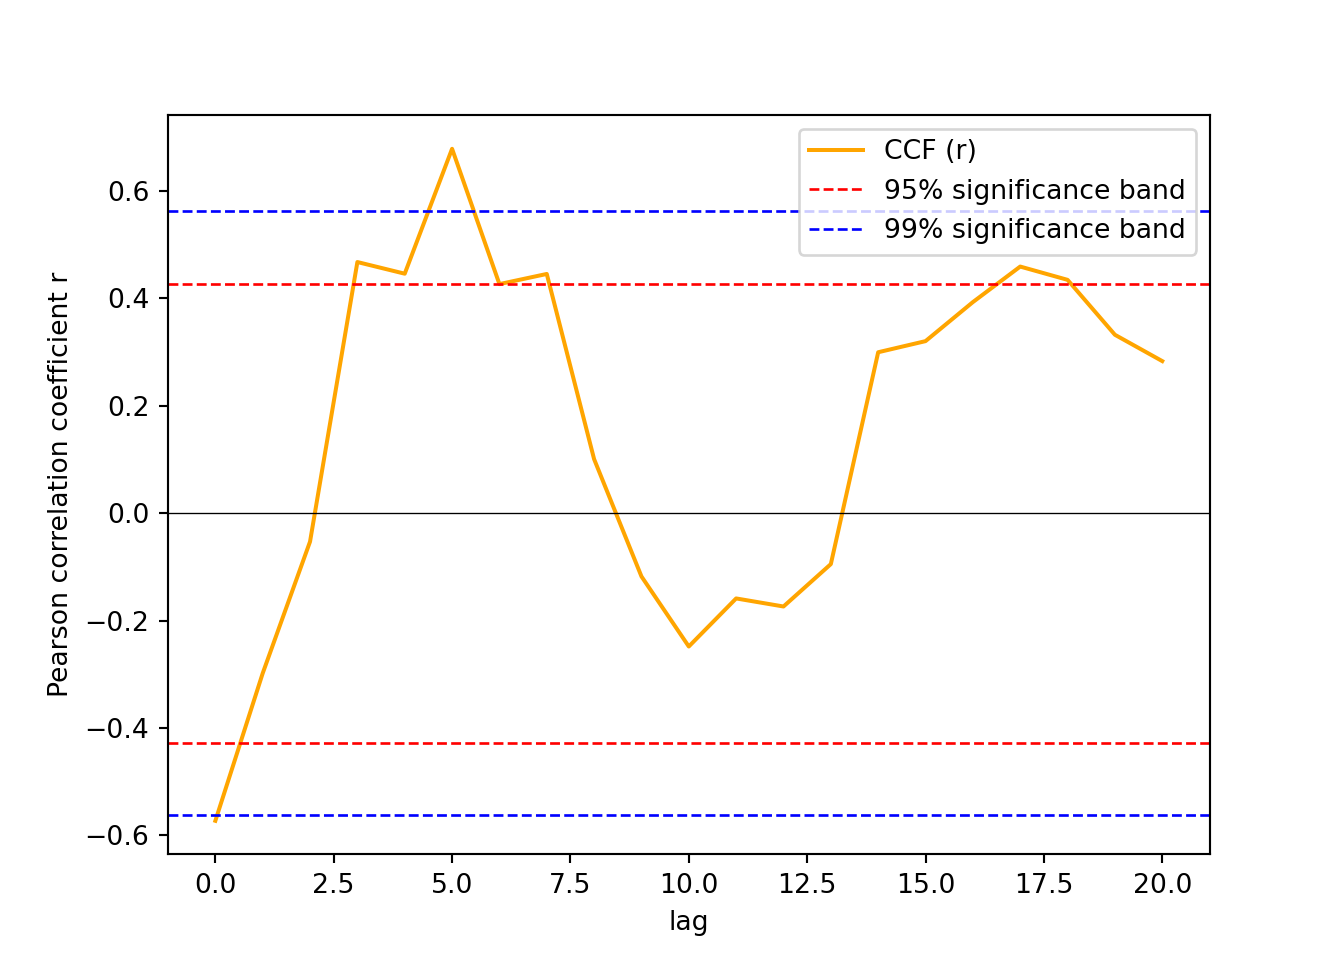
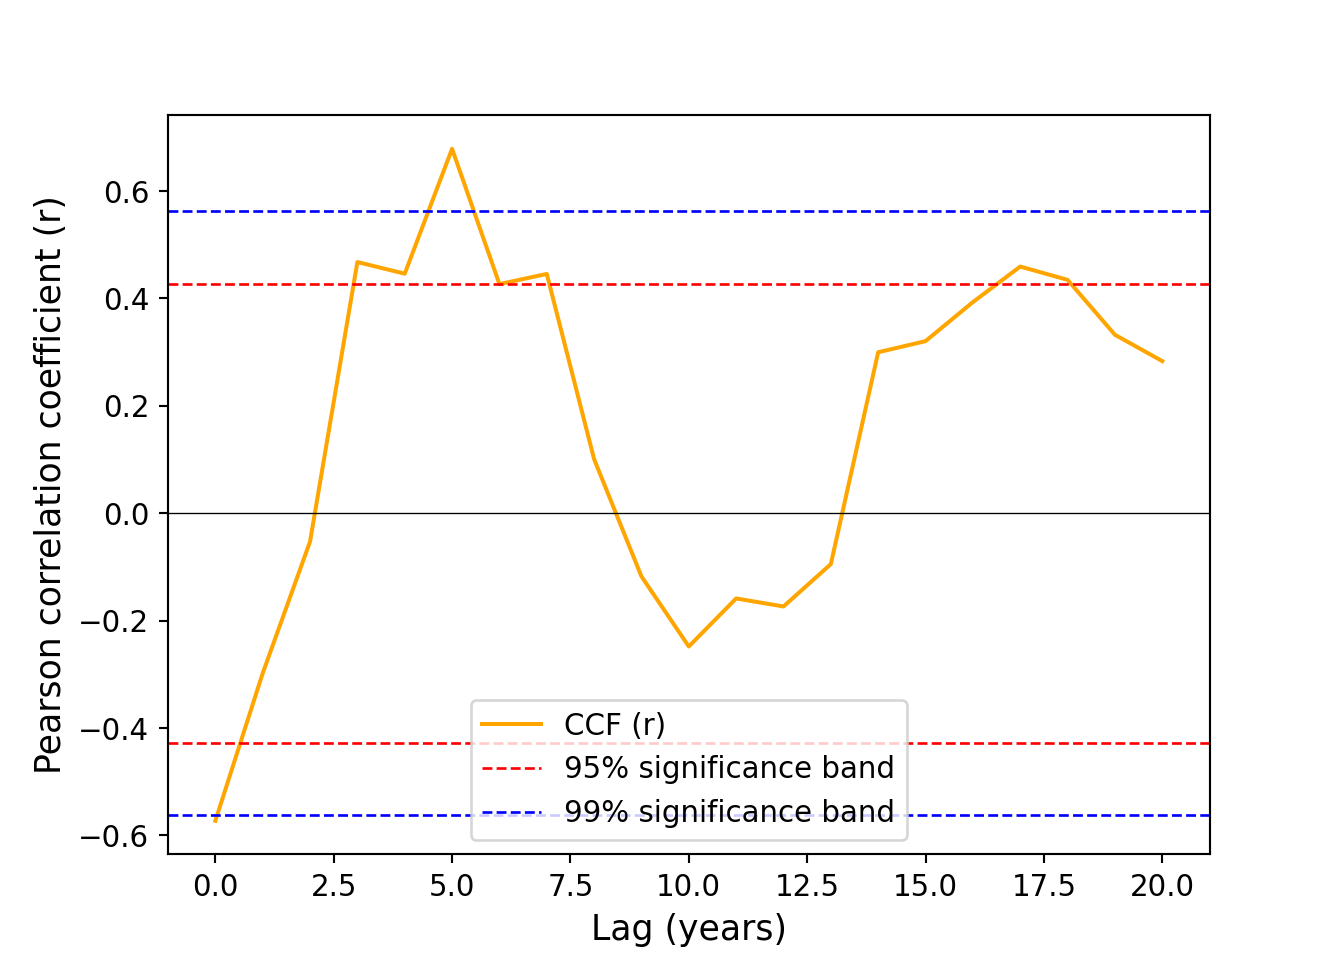
Built site for gh-pages

diff --git a/index.html b/index.html
@@ -557,10 +557,12 @@ nutrient\_quantity\_per\_total\_cal_{row} =  \frac{\text{total quantity per nutr
 <h3 class="anchored" data-anchor-id="bias">Bias</h3>
 <p>The National Food Survey primarily tracks household food purchases intended for home preparation, which historically could undercount the food consumed outside the household. Additionally, during the 27-year period, food-category definitions and household participation patterns may have changed. This means some portions of the observed cluster trends could reflect changes in the methodology as opposed to genuine diet transition.</p>
 <p>As well, some household types could be over or under surveyed and the resulting data could have patterns more specified to those unique areas as opposed to a holistic view of the UK. The survey data itself was self-reported, and therefore is open to social desirability bias. Food groups with a negative connotation may be underrepresented and conversely, foods with a positive connotation may be overrepresented.</p>
+<p>The clustering methodology introduced an additional source of bias worth addressing. The clusters, the principal component, the normalization per calorie and the esclusion of alcohol and confections were all modeling choices that shaped the found patterns. It should be understood that the specified clusters were produced by the listed choices and are not clinically validated diet categories.</p>
 </section>
 <section id="ethical-implications" class="level3">
 <h3 class="anchored" data-anchor-id="ethical-implications">Ethical Implications</h3>
 <p>Diet data can be easily connected to judgements about socioeconomic status, and other hereditary health situations. The findings from this study are presented as described trends as opposed to evaluative claims. For this reason, no causal claims can be made, only correlative suggestions can be presented.</p>
+<p>The distinction is worth noting because food choices are often shaped substantially by structural factors such as cost, availability or policy. The choices are often not enforced by preference alone. As such, no cluster in this report should be regarded as “better” or “worse” for the set of choices made by the respective households or the regions they belong to.</p>
 <p>Additionally, no causal claim can be made linking the early 1990s recession (discussed below) to the change in the respective nutrient cluster groups.</p>
 <p>The findings in this report work to suggest dietary trends that may introduce benefits to health at a population-wide scale.</p>
 <p>The findings are not for commercial application or targeted marketing. Since the data utilized in this study followed guidelines and restrictions, these guidelines should continue with any further use of the analysis produced.</p>
@@ -1044,7 +1046,7 @@ Figure&nbsp;11: High LDL cholesterol declined between 1990 and 2023, although it
 </section>
 <section id="results" class="level1">
 <h1>Results</h1>
-<p>While exploratory analysis ranged beyond the final figures included above in this report, time-lag correlation studies were focused on population-level changes in the proportion of nutrient cluster 2, and on population-level LDL cholesterol SEV scores. The results reported below are in reference to the correlative association between those two selected variables.</p>
+<p>While exploratory analysis ranged beyond the final figures included above in this report, time-lag correlation studies were focused on population-level changes in the proportion of nutrient-profile Cluster 2, and on population-level LDL cholesterol SEV scores. The results reported below are in reference to the correlative association between those two selected variables.</p>
 <section id="diet-and-disease-time-lag-correlation" class="level2">
 <h2 class="anchored" data-anchor-id="diet-and-disease-time-lag-correlation">Diet and Disease time-lag correlation</h2>
 <p>With population-level year-on-year changes in nutrient cluster 2 selected to be the explanatory variable, and with population-level year-on-year changes in high LDL cholesterol SEV selected to be the response variable, a correlation analysis was conducted from 0 to 20 years of time lag using a cross correlation function (CCF). For each lag year pair, a Pearson correlation coefficient <em>r</em> was generated.</p>
@@ -1062,10 +1064,10 @@ r_{crit,\,99\%} = \frac{5.67}{\sqrt{n}}
 <div id="fig-correlation-sweep-vs-LDL" class="quarto-float quarto-figure quarto-figure-center anchored">
 <figure class="quarto-float quarto-float-fig figure">
 <div aria-describedby="fig-correlation-sweep-vs-LDL-caption-0ceaefa1-69ba-4598-a22c-09a6ac19f8ca">
-<a href="capstone_files/figure-html/fig-correlation-sweep-vs-LDL-3.png" class="lightbox" data-gallery="quarto-lightbox-gallery-12" title="Figure&nbsp;12: Lag correlation sweeps for cluster 2 against High LDL cholesterol"><img src="capstone_files/figure-html/fig-correlation-sweep-vs-LDL-3.png" class="img-fluid figure-img" width="672"></a>
+<a href="capstone_files/figure-html/fig-correlation-sweep-vs-LDL-3.png" class="lightbox" data-gallery="quarto-lightbox-gallery-12" title="Figure&nbsp;12: Lag correlation sweeps for nutrient-profile Cluster 2 against High LDL cholesterol from 0 to 20 years lag. The orange line represents the cross correlation function (CCF) Pearson correlation coefficient ‘r’ at each tested lag time. Significance thresholds based on sample size of lag years (n = 21) were calculated and added as a dotted red line and dotted blue line for 95% and 99% significance, respectively. There is a sustained correlation above 95% significance from 2.5 to 7.5 years, and a peak above 99% significance at 5 years exactly."><img src="capstone_files/figure-html/fig-correlation-sweep-vs-LDL-3.png" class="img-fluid figure-img" width="672"></a>
 </div>
 <figcaption class="quarto-float-caption-bottom quarto-float-caption quarto-float-fig" id="fig-correlation-sweep-vs-LDL-caption-0ceaefa1-69ba-4598-a22c-09a6ac19f8ca">
-Figure&nbsp;12: Lag correlation sweeps for cluster 2 against High LDL cholesterol
+Figure&nbsp;12: Lag correlation sweeps for nutrient-profile Cluster 2 against High LDL cholesterol from 0 to 20 years lag. The orange line represents the cross correlation function (CCF) Pearson correlation coefficient ‘r’ at each tested lag time. Significance thresholds based on sample size of lag years (n = 21) were calculated and added as a dotted red line and dotted blue line for 95% and 99% significance, respectively. There is a sustained correlation above 95% significance from 2.5 to 7.5 years, and a peak above 99% significance at 5 years exactly.
 </figcaption>
 </figure>
 </div>
